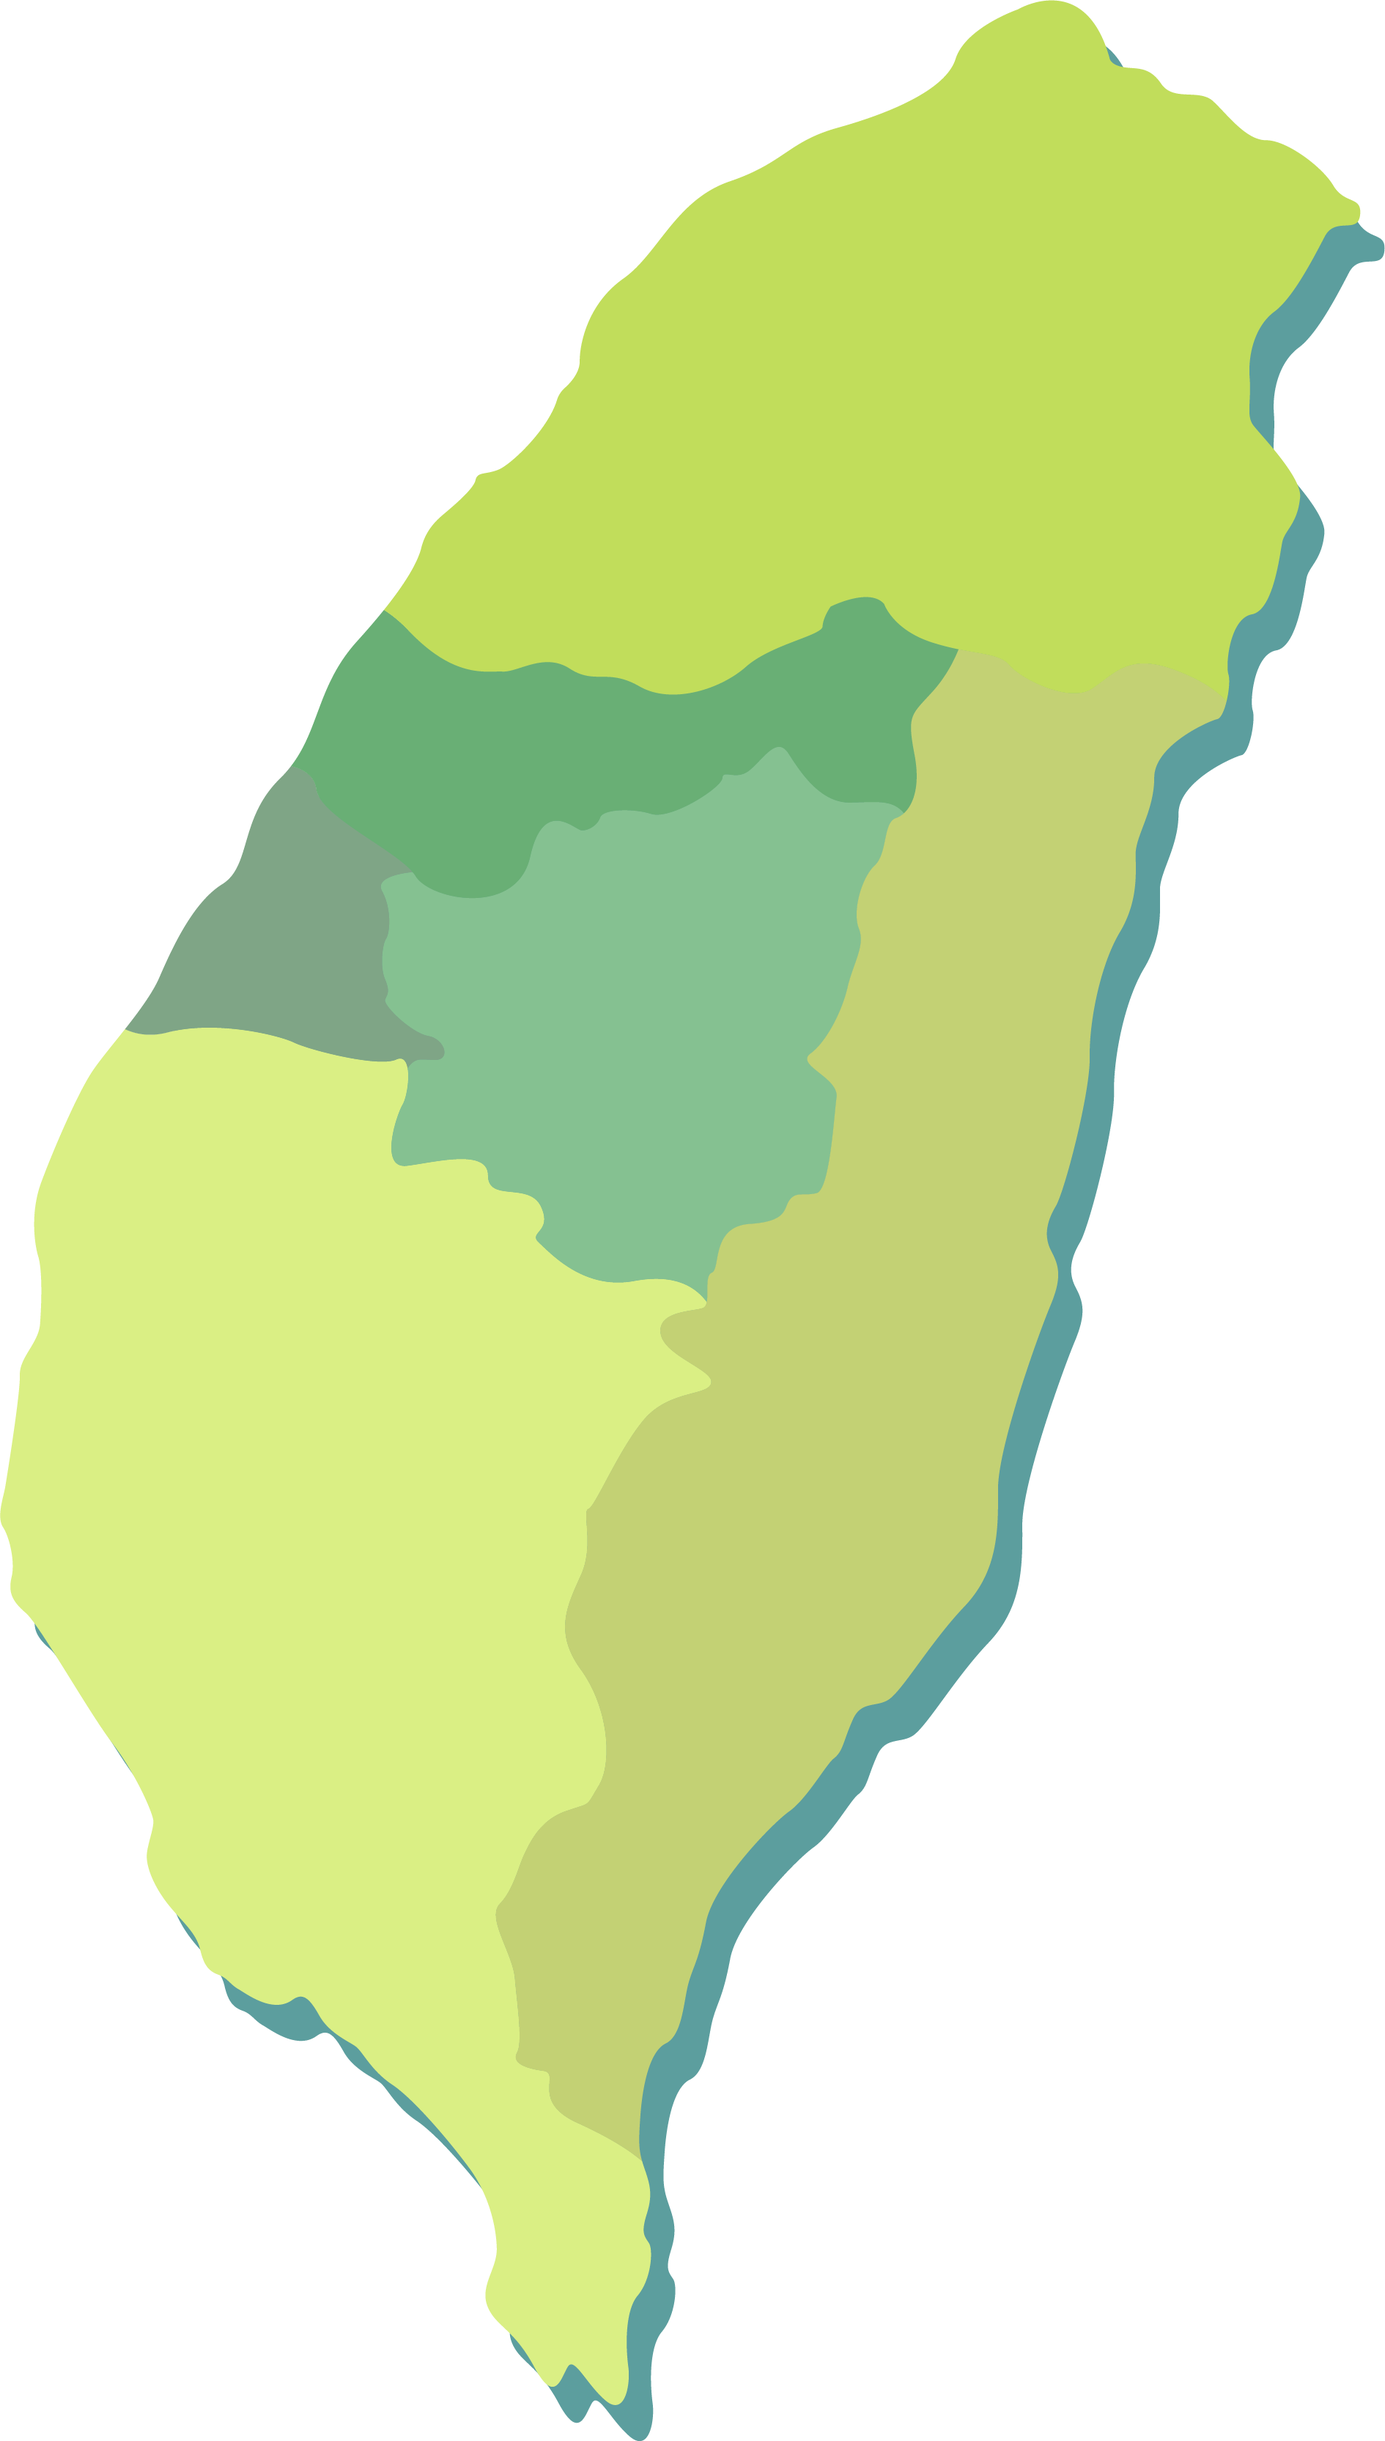
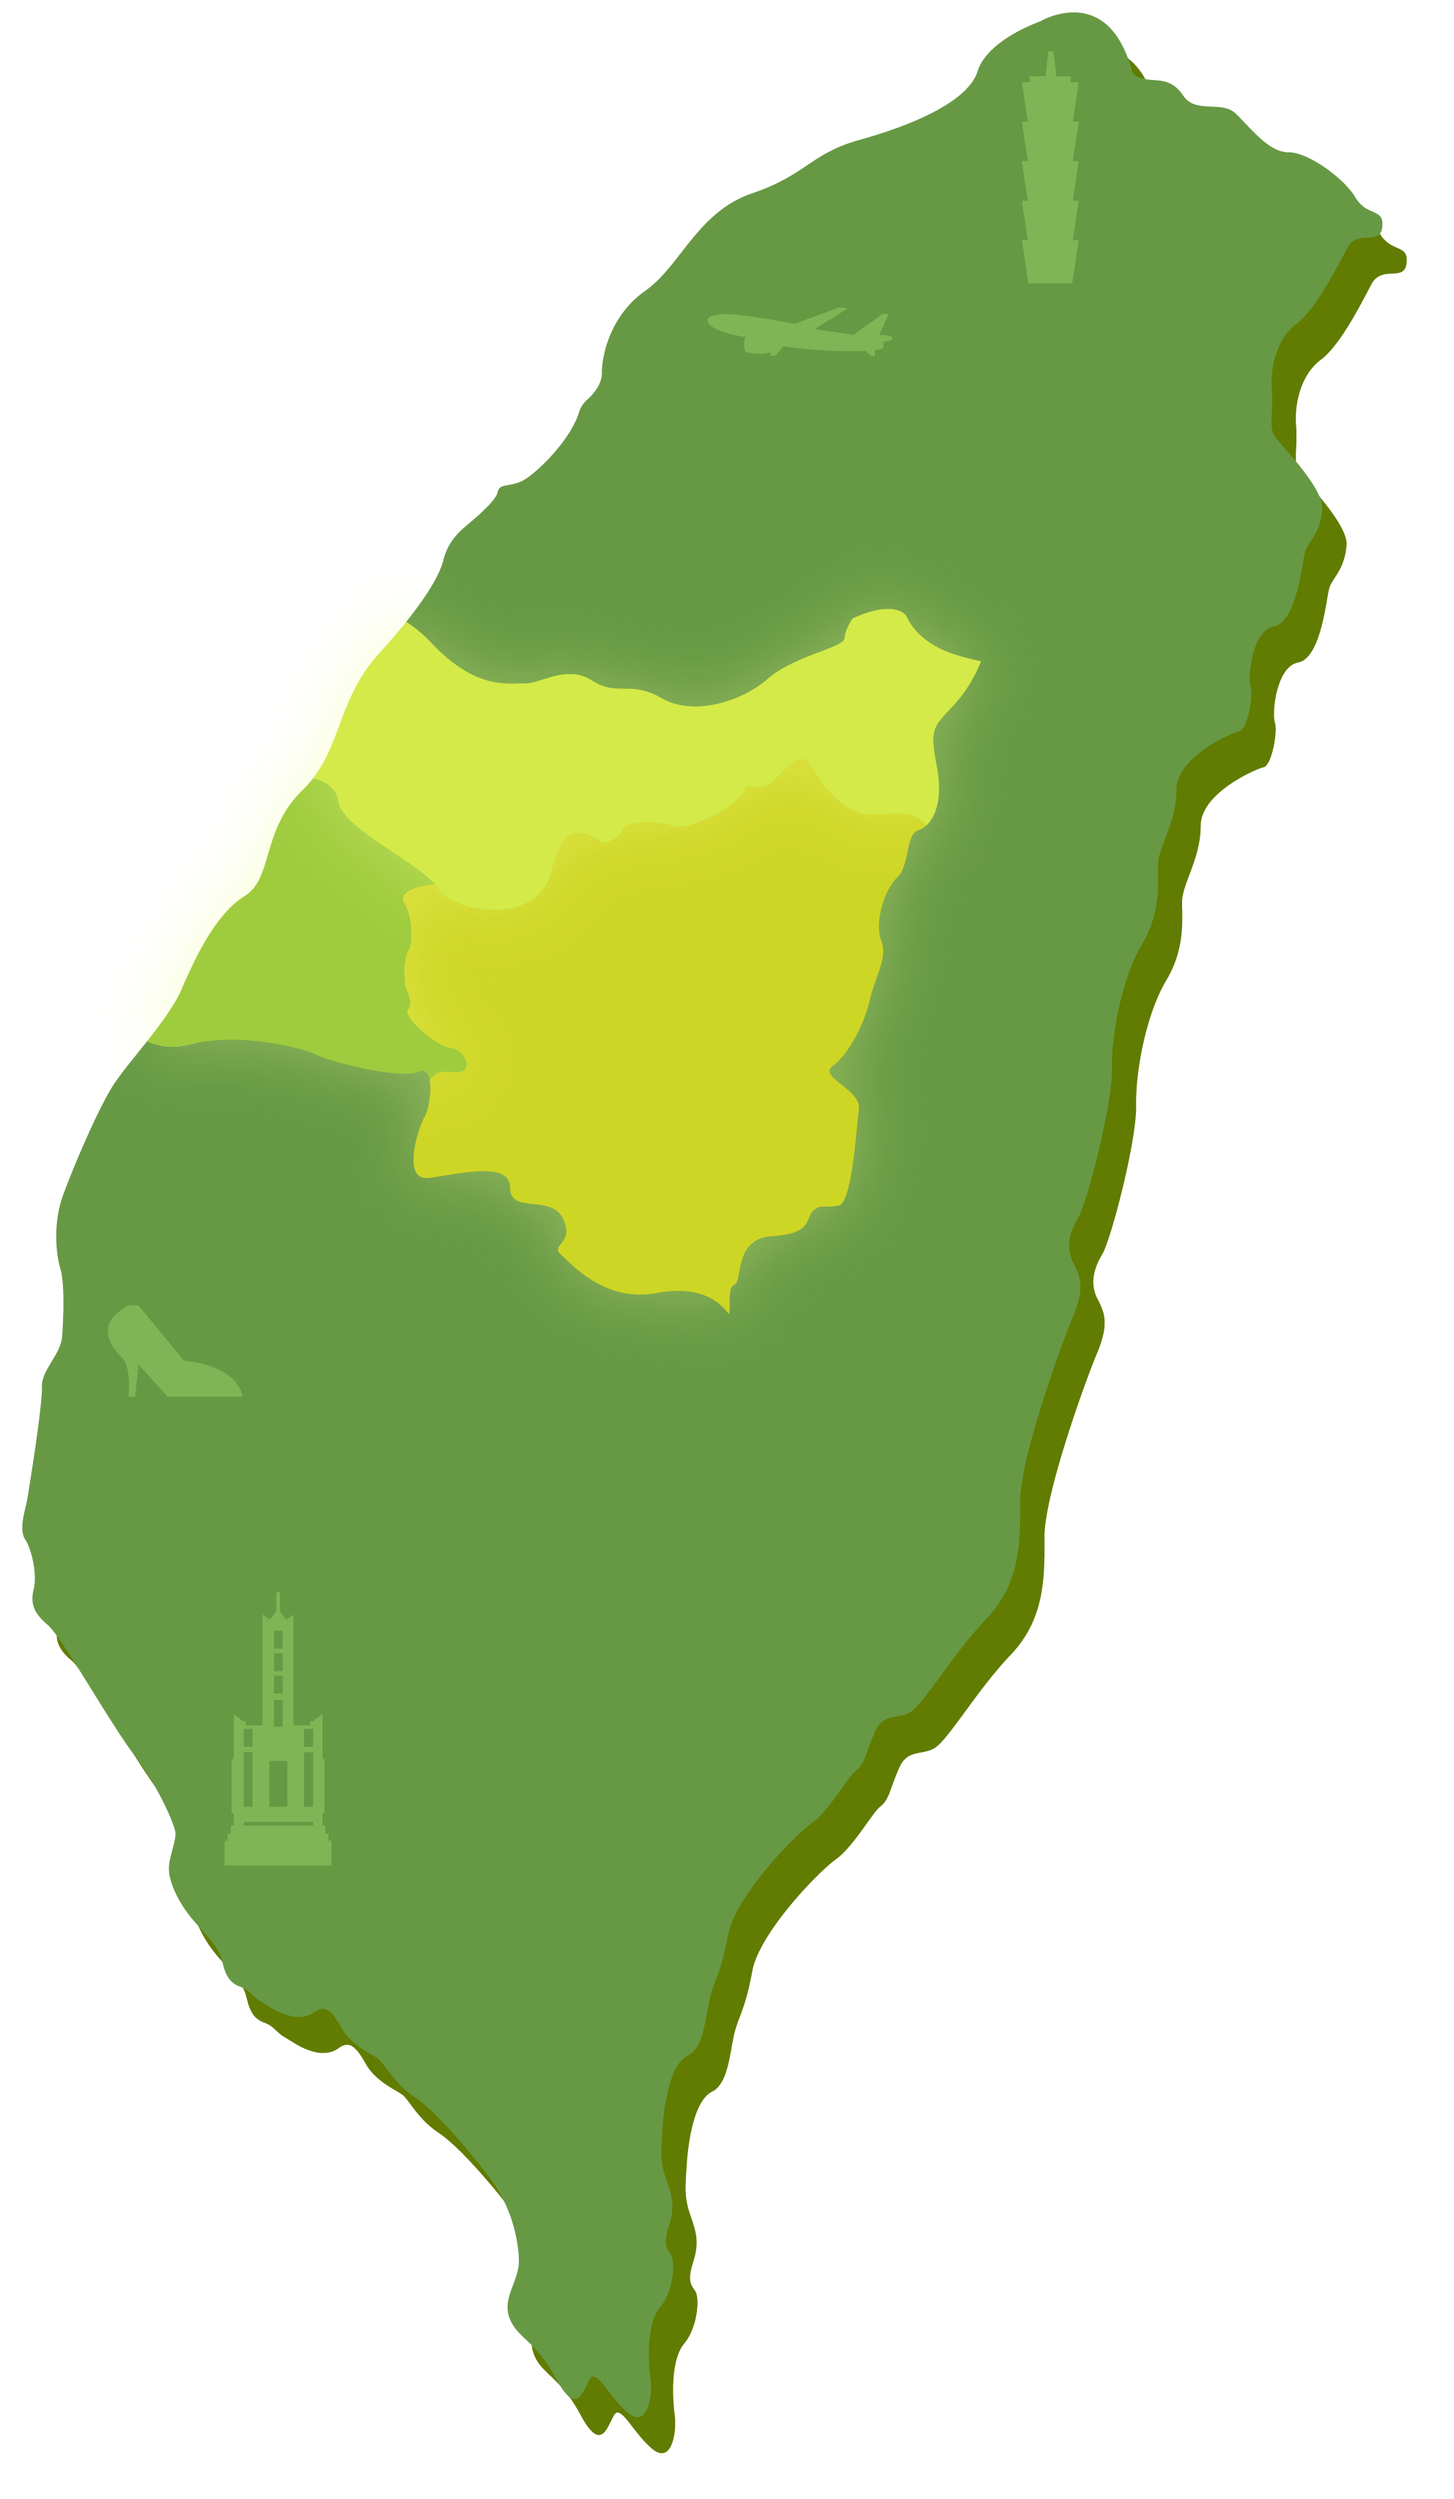
地圖 hover 有問題

diff --git a/index.html b/index.html
@@ -18,8 +18,8 @@
 <body>
     <div id="CityAurora">
         <!-- Load -->
-        <div id="loadingScene" class="d-none">
-            <div id="car" style="text-align: center; font-size:24px; color: white">我是一台車</div>
+        <div id="loadingScene" class="">
+            <div id="car"><img class="w-100" src="/img/Intro-car.png" alt=""></div>
         </div>
         <!-- Nav -->
         <nav id="Nav">
@@ -43,6 +43,13 @@
         </nav>
         <!-- Main -->
         <div id="main" class="w-100 h-100">
+            <div class="container">
+                <div id="decoration">
+                    <img class="w-75" src="/img/main-talk.png" alt="">
+                    <img class="w-100" src="/img/main-car.png" alt="">
+                    <img class="w-75" src="/img/main-ground.png" alt="">
+                </div>
+            </div>
             <div class="mask">
                 <div class="mask-cancel">X</div>
                 <div id="taichung" class="area-locate">
@@ -51,18 +58,23 @@
                 <div class="area-locate"></div>
                 <div class="area-locate"></div>
             </div>
-            <img id="TaiwanMap" src="/img/TaiwanMap.png" usemap="#image-map">
-            <map name="image-map">
-                <area id="map-taichung" target="" alt="Taichung" title="Taichung" href="#"
-                    coords="526,832,574,884,624,912,673,922,719,909,754,905,776,917,811,924,836,924,858,932,890,947,936,949,980,937,1010,921,1028,900,1058,889,1095,870,1113,867,1127,844,1134,830,1157,822,1189,817,1205,832,1219,847,1232,862,1250,870,1267,877,1292,884,1307,889,1295,917,1275,937,1254,961,1242,982,1242,1006,1249,1034,1250,1067,1237,1103,1230,1113,1209,1098,1185,1094,1145,1093,1110,1079,1083,1046,1067,1024,1045,1031,1023,1054,1002,1061,987,1061,953,1093,923,1108,896,1113,861,1108,828,1111,808,1128,786,1133,763,1123,741,1128,724,1154,716,1188,693,1213,666,1221,616,1226,588,1214,561,1196,549,1179,519,1164,501,1146,476,1126,442,1099,431,1084,427,1067,416,1056,391,1047,419,1011,434,969,444,932,466,895,496,869"
-                    shape="poly">
-                <area id="map-changhua" target="" alt="Chunghua" title="Chunghua" href="#"
-                    coords="398,1047,371,1077,353,1097,341,1134,333,1166,323,1187,300,1212,275,1236,255,1259,238,1291,221,1326,208,1351,193,1374,171,1404,198,1413,235,1408,266,1399,311,1403,370,1413,430,1433,488,1445,542,1445,557,1455,574,1448,602,1443,602,1421,574,1408,538,1379,525,1358,528,1333,525,1303,528,1279,533,1249,528,1231,520,1206,548,1192,547,1179,518,1161,497,1141,468,1119,440,1097,432,1069,420,1055"
-                    shape="poly">
-                <area id="map-nantou" target="" alt="Nantou" title="Nantou" href="#"
-                    coords="557,1461,557,1493,543,1521,537,1550,538,1581,550,1592,590,1585,635,1583,662,1592,665,1610,680,1622,710,1628,732,1637,740,1657,734,1678,732,1693,764,1722,797,1742,826,1750,857,1750,884,1749,906,1743,936,1754,958,1774,966,1785,968,1749,974,1735,981,1710,986,1688,1008,1675,1039,1667,1066,1658,1078,1638,1098,1627,1118,1627,1135,1565,1138,1516,1141,1488,1104,1451,1096,1438,1126,1423,1146,1373,1170,1321,1176,1274,1166,1244,1170,1214,1188,1187,1201,1171,1206,1141,1215,1121,1231,1107,1210,1096,1183,1094,1148,1094,1128,1086,1114,1079,1091,1052,1073,1020,1046,1030,1024,1055,994,1059,954,1094,936,1101,914,1111,902,1111,881,1107,847,1109,826,1112,806,1126,784,1131,767,1126,757,1122,737,1134,727,1157,720,1177,700,1204,682,1212,652,1221,614,1224,587,1212,572,1202,547,1181,550,1192,520,1209,533,1236,528,1268,523,1298,527,1326,523,1354,540,1378,558,1399,590,1414,604,1423,604,1440,584,1446,567,1450"
-                    shape="poly">
-            </map>
+            <div id="taiwan">
+                <img class="w-100" id="TaiwanMap" src="/img/TaiwanMap.png" usemap="#image-map">
+                <map name="image-map">
+                    <area data-maker="1" id="map-taichung" target="" alt="Taichung" title="Taichung" href="#"
+                        coords="526,832,574,884,624,912,673,922,719,909,754,905,776,917,811,924,836,924,858,932,890,947,936,949,980,937,1010,921,1028,900,1058,889,1095,870,1113,867,1127,844,1134,830,1157,822,1189,817,1205,832,1219,847,1232,862,1250,870,1267,877,1292,884,1307,889,1295,917,1275,937,1254,961,1242,982,1242,1006,1249,1034,1250,1067,1237,1103,1230,1113,1209,1098,1185,1094,1145,1093,1110,1079,1083,1046,1067,1024,1045,1031,1023,1054,1002,1061,987,1061,953,1093,923,1108,896,1113,861,1108,828,1111,808,1128,786,1133,763,1123,741,1128,724,1154,716,1188,693,1213,666,1221,616,1226,588,1214,561,1196,549,1179,519,1164,501,1146,476,1126,442,1099,431,1084,427,1067,416,1056,391,1047,419,1011,434,969,444,932,466,895,496,869"
+                        shape="poly">
+                    <area data-maker="2" id="map-changhua" target="" alt="Chunghua" title="Chunghua" href="#"
+                        coords="398,1047,371,1077,353,1097,341,1134,333,1166,323,1187,300,1212,275,1236,255,1259,238,1291,221,1326,208,1351,193,1374,171,1404,198,1413,235,1408,266,1399,311,1403,370,1413,430,1433,488,1445,542,1445,557,1455,574,1448,602,1443,602,1421,574,1408,538,1379,525,1358,528,1333,525,1303,528,1279,533,1249,528,1231,520,1206,548,1192,547,1179,518,1161,497,1141,468,1119,440,1097,432,1069,420,1055"
+                        shape="poly">
+                    <area data-maker="3" id="map-nantou" target="" alt="Nantou" title="Nantou" href="#"
+                        coords="557,1461,557,1493,543,1521,537,1550,538,1581,550,1592,590,1585,635,1583,662,1592,665,1610,680,1622,710,1628,732,1637,740,1657,734,1678,732,1693,764,1722,797,1742,826,1750,857,1750,884,1749,906,1743,936,1754,958,1774,966,1785,968,1749,974,1735,981,1710,986,1688,1008,1675,1039,1667,1066,1658,1078,1638,1098,1627,1118,1627,1135,1565,1138,1516,1141,1488,1104,1451,1096,1438,1126,1423,1146,1373,1170,1321,1176,1274,1166,1244,1170,1214,1188,1187,1201,1171,1206,1141,1215,1121,1231,1107,1210,1096,1183,1094,1148,1094,1128,1086,1114,1079,1091,1052,1073,1020,1046,1030,1024,1055,994,1059,954,1094,936,1101,914,1111,902,1111,881,1107,847,1109,826,1112,806,1126,784,1131,767,1126,757,1122,737,1134,727,1157,720,1177,700,1204,682,1212,652,1221,614,1224,587,1212,572,1202,547,1181,550,1192,520,1209,533,1236,528,1268,523,1298,527,1326,523,1354,540,1378,558,1399,590,1414,604,1423,604,1440,584,1446,567,1450"
+                        shape="poly">
+                </map>
+                <img id="map-hover-1" class="map-hover" style="" src="/img/map-taichung-hover.png" alt="">
+                <img id="map-hover-2" class="map-hover" style="" src="/img/map-chunghua-hover.png" alt="">
+                <img id="map-hover-3" class="map-hover" style="" src="/img/map-nantou-hover.png" alt="">
+            </div>
         </div>
         <!-- Modal -->
         <div class="modal fade" id="Modal-taichung" tabindex="-1" role="dialog"
@@ -107,7 +119,10 @@
                             <!-- GO按鈕 href裡面放google map的網址 -->
                             <a target="_blank"
                                 href="https://www.google.com/maps/place/%E6%BB%94%E6%9C%88%E6%99%AF%E8%A7%80%E5%92%96%E5%95%A1%E5%BB%B3/@24.2035405,120.5850302,17z/data=!3m1!4b1!4m5!3m4!1s0x34691573fdcb0f5d:0xfe40923f044bcc5!8m2!3d24.2035356!4d120.5872189">
-                                <div class="GObtn">GO</div>
+                                <div class="GObtn">
+                                    <img class="w-100" src="img/GObtn.png" alt="">
+                                    <img class="w-100" src="img/GObtn-hover.png" alt="">
+                                </div>
                             </a>
                         </div>
                     </div>
@@ -181,7 +196,7 @@
         }, 3000);
 
         setTimeout(function () {
-            // $("#TaiwanMap").fadeIn(1000, "linear");
+            $("#TaiwanMap").fadeIn(1000, "linear");
             $(document).ready(function (e) {
                 $('img[usemap]').rwdImageMaps();
             });
@@ -220,14 +235,14 @@
                 }, 900);
             }
         )
-        
+
 
         $("#map-changhua").click(
             function () {
                 $("#TaiwanMap").css(
                     "transition", "1s ease-in"
                 );
-                map.style.transformOrigin = "20% 35%";  
+                map.style.transformOrigin = "20% 35%";
                 setTimeout(function () {
                     map.style.transform = "scale(4.5)";
                     $('.mask').addClass("d-block")
@@ -239,7 +254,7 @@
                 $("#TaiwanMap").css(
                     "transition", "1s ease-in"
                 );
-                map.style.transformOrigin = "20% 35%";  
+                map.style.transformOrigin = "20% 35%";
                 setTimeout(function () {
                     map.style.transform = "scale(4.5)";
                     $('.mask').addClass("d-block")
@@ -253,7 +268,7 @@
                 $("#TaiwanMap").css(
                     "transition", "1s ease-in"
                 );
-                map.style.transformOrigin = "45% 40%";  
+                map.style.transformOrigin = "45% 40%";
                 setTimeout(function () {
                     map.style.transform = "scale(4.5)";
                     $('.mask').addClass("d-block")
@@ -265,7 +280,7 @@
                 $("#TaiwanMap").css(
                     "transition", "1s ease-in"
                 );
-                map.style.transformOrigin = "45% 40%";  
+                map.style.transformOrigin = "45% 40%";
                 setTimeout(function () {
                     map.style.transform = "scale(4.5)";
                     $('.mask').addClass("d-block")
@@ -302,17 +317,13 @@
         let area = document.querySelectorAll("area");
         area.forEach(function (element) {
             element.onmouseover = function () {
-
-                console.log("In");
-
-                // let marker_number = element.dataset.maker;
-                // $("#marker-" + marker_number).show();
+                let marker_number = element.dataset.maker;
+                $("#map-hover-" + marker_number).show();
             }
 
             element.onmouseout = function () {
-                // let marker_number = element.dataset.maker;
-                // $("#marker-" + marker_number).hide();
-                console.log("Out");
+                let marker_number = element.dataset.maker;
+                $("#map-hover-" + marker_number).hide();
             }
         });
 

diff --git a/css/index.css b/css/index.css
@@ -3,12 +3,15 @@
     width: 100vw;
     height: 100vh;
     overflow: hidden;
-    background-color: #495758;
+    background-image: url("/img/index-BG.png");
+    background-size: cover;
+    background-position: bottom;
+    background-repeat: no-repeat;
 }
 
 /* Nav */
 .logo{
-    width: 150px;
+    width: 300px;
 }
 
 #Nav{
@@ -43,6 +46,10 @@
     left: 0;
 }
 
+#main .container{
+    height: 100%;
+}
+
 .mask{
     display: none;
     position: absolute;
@@ -72,16 +79,77 @@
     font-size: 16px;
 }
 
-#TaiwanMap{
+#taiwan{
     width: 480px;
     position: absolute;
-    top: 5%;
+    top: -3%;
     right: 15%;
-    /* display: none; */
+}
+
+#TaiwanMap{
+    display: none;
     transform: scale(1);
 }
 
+.map-hover{
+    width: 50%;
+    display: none;
+}
 
+#taiwan #map-hover-1{
+    position: absolute;
+    top: 125px;
+    left: 90px;
+}
+
+/* #taiwan #map-hover-1:hover{
+    display: block !important;
+}
+#taiwan #map-hover-2:hover{
+    display: block !important;
+}
+#taiwan #map-hover-3:hover{
+    display: block !important;
+} */
+
+#taiwan #map-hover-2{
+    position: absolute;
+    top: 180px;
+    left: -7px;
+}
+
+#taiwan #map-hover-3{
+    position: absolute;
+    top: 220px;
+    left: 95px;
+}
+
+#decoration{
+    position: relative;
+    bottom: -40%;
+    width: 260px;
+    height: 260px;
+    z-index: 61213906;
+}
+
+#decoration img:nth-child(1){
+    position: absolute;
+    top: 0;
+    left: 0;  
+    transform-origin: 80% 100%;
+    animation:Car-shake 0.5s ease-in-out infinite;
+}
+#decoration img:nth-child(2){
+    position: absolute;
+    top: 120px;
+    left: 0;
+    animation:Car-shake 0.5s ease-in-out infinite;
+}
+#decoration img:nth-child(3){
+    position: absolute;
+    top: 280px;
+    left: 0;
+}
 
 /* Map */
 
@@ -152,13 +220,44 @@
 #googleMap .GObtn{
     position: absolute;
     right: -30px;
-    bottom: -25px;
+    bottom: 0px;
     width: 75px;
     height: 60px;
-    background-color: #E25061;
-    text-align: center;
-    line-height: 60px;
-    color: white;
-    font-size: 26px;
     z-index: 1000;
+}
+
+#googleMap .GObtn img:nth-child(2){
+    display: none;
+}
+
+#googleMap a:hover .GObtn img:nth-child(1){
+    display: none;
+}
+#googleMap a:hover .GObtn img:nth-child(2){
+    display: block;
+}
+
+
+
+/* animate */
+
+@keyframes Car-shake{
+    0%{
+        transform: translateY(0);
+    }
+    20%{
+        transform: translateY(4px);
+    }
+    40%{
+        transform: translateY(0);
+    }
+    60%{
+        transform: translateY(px);
+    }
+    80%{
+        transform: translateY(0);
+    }
+    100%{
+        transform: translateY(3px);
+    }
 }

diff --git a/css/loadingScene.css b/css/loadingScene.css
@@ -2,21 +2,15 @@
     position: relative;
     width: 100vw;
     height: 100vh;
-    background-color:#A4DAEE; 
+    background-color:white; 
     transition: 3s ease-in-out;
-}
-
-#loadingScene.active{
-    background-color:#495758; 
 }
 
 #car{
     position: absolute;
     left: 0px;
     bottom: 0;
-    width: 150px;
-    height: 150px;
-    background-color: black;
+    width: 50px;
     transition: 4s ease-in-out;
 }
 
